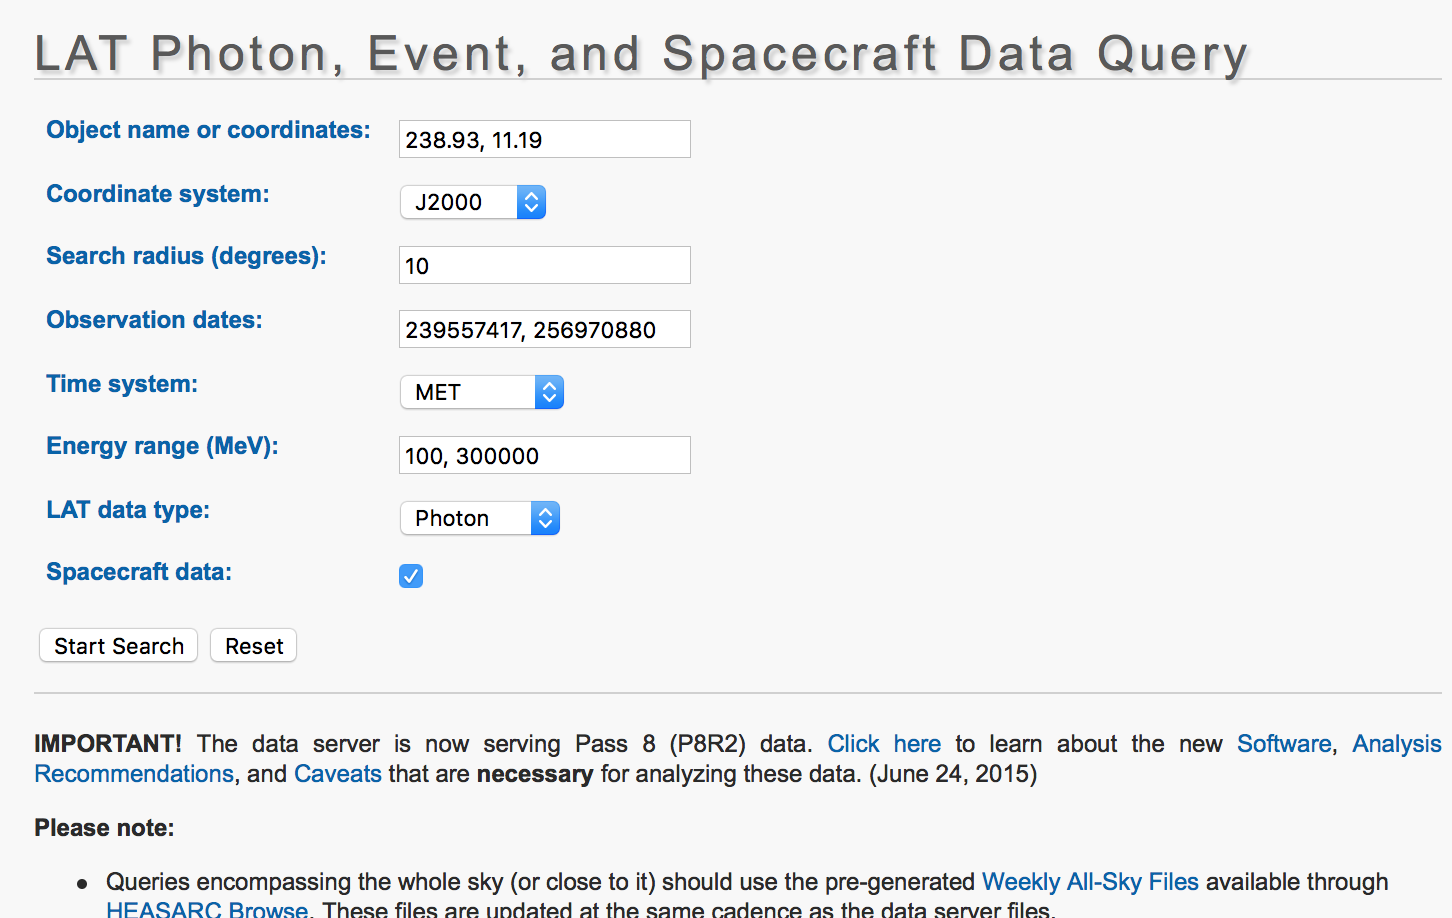
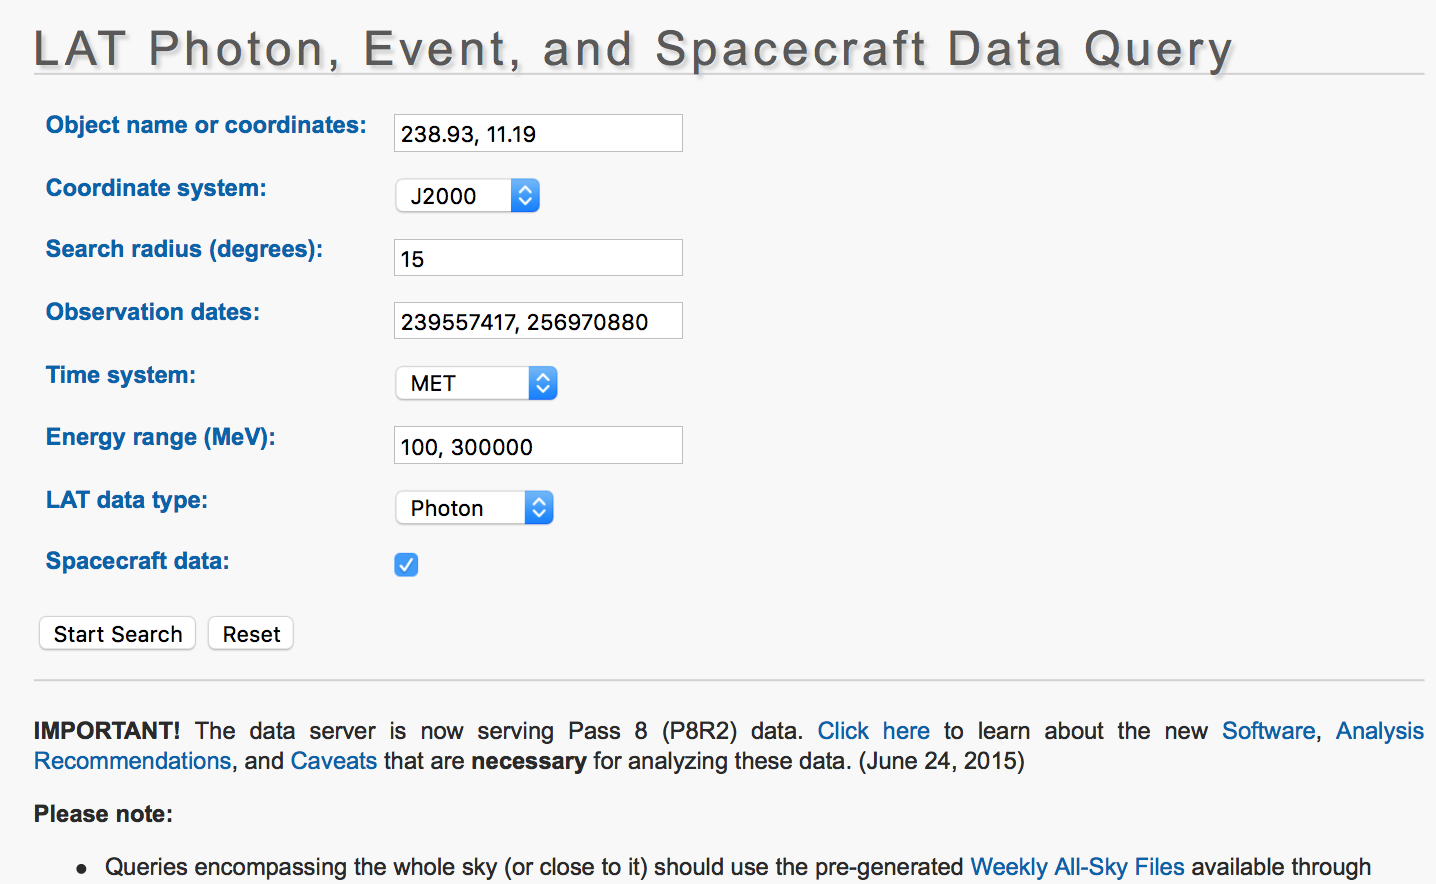
index

diff --git a/prepare.md b/prepare.md
@@ -100,12 +100,12 @@ Once you select your favorite source for inspection which will define the sky co
 - Date range (MET): 441763203, 457401604. LAT uses a very special time unit called the [Mission Elapsed Time (MET)](https://fermi.gsfc.nasa.gov/ssc/data/analysis/documentation/Cicerone/Cicerone_Data/Time_in_ScienceTools.html) which is the number of seconds since midnight at the beginning of January 1, 2001, in the UTC system. The range given here corresponds to the first semester of 2015.
 - Energy range (MeV): 100, 300000. This is the normal energy range used in LAT analysis.
 
-Once you made your choices for selecting the photons, normally you would go to go to the NASA FSSC server website, input the selection criteria and download the files. However, in order to save time and bandwidth, all the necessary files have already been downloaded and are available in the folder `sources`. 
+Once you made your choices for selecting the photons, normally you would go to go to the NASA FSSC server website, input the selection criteria and download the files. However, in order to save time and bandwidth, all the necessary files have already been downloaded and are available in the folder `day01`. 
 
 
 ## Data files available in the VM
 
-The directory `~/sources` contains the following following files that will be required in the activities that follow:
+The directory `~/day01` contains the following following files that will be required in the activities that follow:
 
 - `3c454*.fits`: events files for the blazar 3C 454.3
 - `vela*.fits`: events files for the Vela pulsar
@@ -162,9 +162,12 @@ Let’s use a few different tools to explore the content of the events file for 
 First open a terminal:
 ![](./figures/open_terminal.png)
 
-Issue the command
+Issue the commands
 
-    ipython --pylab
+```shell
+cd day01
+ipython --pylab
+```
 
 to open the IPython environment. The `--pylab` argument makes sure that convenient plotting modules are loaded on startup. You should see this:
 ![](./figures/ipython.png)

diff --git a/README.md b/README.md
@@ -1,13 +1,18 @@
 Analysis of Fermi LAT data: Hands on session
 ==============================================
 
+- [Tutorials](#tutorials)
+- [Pre-requisites](#pre-requisites)
+- [Download VM](#download-links) and [instructions for installing](#instructions-for-installing-vm)
+- [Contact](#contact)
+
 These are the tutorials for the hands on, practical session on the analysis of *Fermi* Large Area Telescope (aka LAT) gamma-ray observations for the [São Paulo School of Advanced Science on High Energy and Plasma Astrophysics in the CTA Era](http://www.astro.iag.usp.br/~highenastro/). The goal of this activity is to get you started on the analysis of Fermi LAT data while giving you a concrete overview of the steps involved. 
 
 This activity has a total duration of 4 hours distributed in two days. Given the somewhat short duration of these sessions, we will not have time to get into the details of all the fascinating science behind the analysis. The emphasis is on “getting your hands dirty” with the data. 
 
 # Pre-requisites
 
-To participate in the tutorial we recommend that you bring your laptop. Your laptop should have at least 4GB of RAM in order to comfortably run the VM. You will need about 17 GB of free space in your computer: 5 GB for the download and 13 GB to install the VM.
+To participate in the tutorial we recommend that you bring your laptop. Your laptop should have at least 4GB of RAM in order to comfortably run the VM. You will need about 26 GB of free space in your computer: 8 GB for the download and 18 GB to install and run the VM.
 
 All the analysis software and data files required for this hands-on activity are already installed in a ready-to-use, self-contained [virtual machine (VM)](https://en.wikipedia.org/wiki/Virtual_machine). The VM runs on Windows, Linux and MacOS and is based on the *Scientific Linux distribution*. It contains the `Fermi ScienceTools`, `Enrico` and `ds9`.
 

diff --git a/likelihood.md b/likelihood.md
@@ -11,18 +11,25 @@ same activity as the MP school
 data extracted using the following parameters:
 ![](./figures/pg1553_query.png)
 
-10 deg radius
+15 deg radius
 
+available in directory `day02/data`
 
 # Create a configuration file
 
+open terminal
+
 ```shell
+cd day02
 mkdir spectrum
 cd spectrum
 ```
 
+Parameters below from http://fermi-hero.readthedocs.io/en/latest/spectrum/index.html#make-a-config-file
+z=0.36
+
 ```
-enrico_config analysis.conf
+enrico_config pg1553.conf
 
 ```
 
